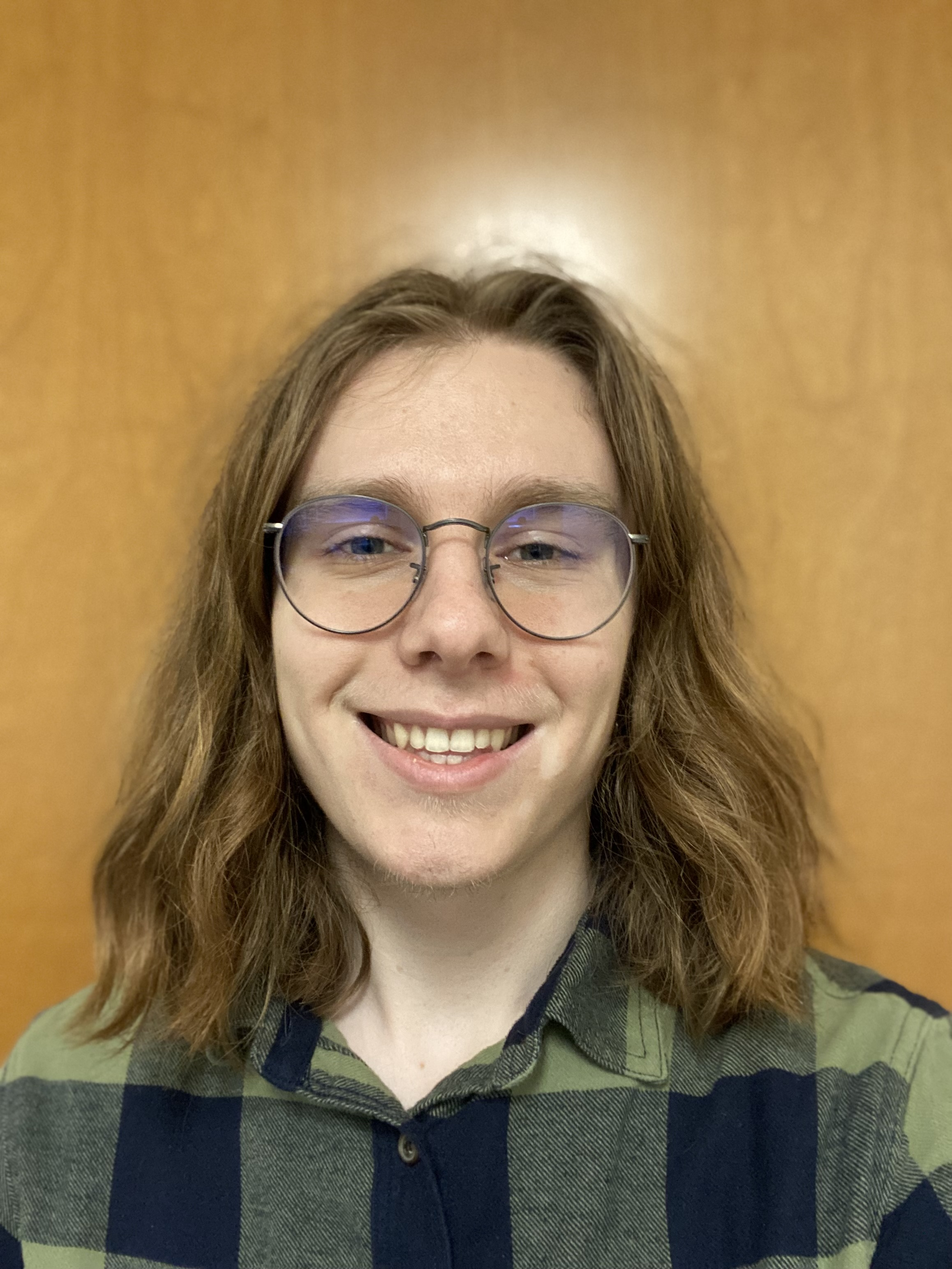
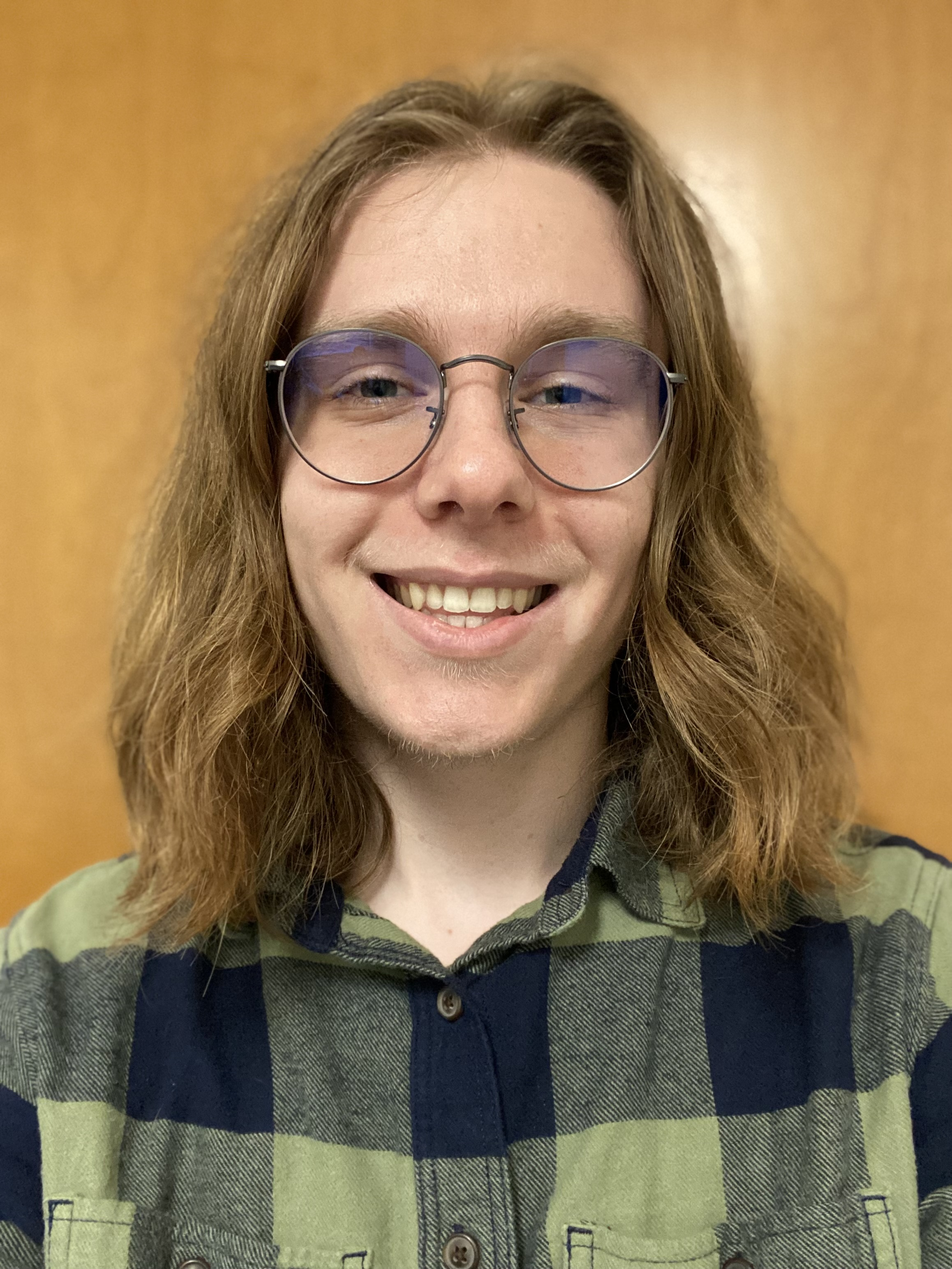
More changes to welcome page

diff --git a/styles.css b/styles.css
@@ -19,8 +19,10 @@ html {
 }
 
 .welcome-text p {
-    max-width: 500px;
-    font-size: 18px;
+    max-width: 800px;
+    font-size: 25px;
+    line-height: 150%;
+    margin-left: 5%;
 }
 
 p a {
@@ -35,24 +37,53 @@ p a:hover {
 }
 
 .welcome-text h1 {
-    font-size: 50px;
-    color: rgb(77, 80, 82);
-    /*
-    color: rgb(247, 166, 112); */
+    font-size: 60px;
+    color: rgb(180, 137, 56);
+    margin-left: 3%;
 }
 
 .welcome-text h4 {
-    font-size: 25px;
+    font-size: 30px;
 }
 
 .welcome-button {
   text-decoration: none;
-  color: gray;
-  background-color: black;
+  font-size: 50px;
+  color: rgb(255, 252, 252);
+  background-color: rgb(180, 137, 56);
   border-style: solid;
   border-width: 1px 1px 1px 1px;
+  border-color: rgb(180, 137, 56);
   padding: 4px;
   border-radius: 10px;
+  position: absolute;
+  top: 1000px;
+  text-align: center;
+  margin-left: 31%;
+}
+
+.avatar {
+  width: 100%;
+  height: auto;
+  -webkit-background-clip: padding-box;
+  -moz-background-clip: padding;
+  background-clip: padding-box;
+}
+
+img {
+  width: 100%;
+  height: auto;
+}
+
+.welcome-image {
+  position: absolute;
+  width:500px; 
+  height:500px; 
+  border-radius:50%; 
+  overflow:hidden;
+  float: right;    
+  bottom: 550px;
+  right: 500px;
 }
 
 .sticky-header {
@@ -76,6 +107,7 @@ p a:hover {
     margin: 0;
     padding: 0;
     display: flex;
+    float: right;
   }
   
   .sticky-header li {

diff --git a/index.html b/index.html
@@ -28,9 +28,10 @@
         <h4>Hi, my name is</h4>
         <h1>Gavon Trubee.</h1>
         <p>I am a software engineer with a passion for learning new things. While obtaining my Bachelor's degree in computer science at <a href="https://www.findlay.edu/" target="_blank">The University of Findlay</a>, I like to explore game development, play guitar, keep up with the latest tech trends, and further develop my knowledge of coding using <a href="https://www.freecodecamp.org/learn" target="_blank">freeCodeCamp</a> and other resources.</p>
-        <a class="welcome-button" href="#projects">Check my projects here!</a>
-        <img class="welcome-image" src-="./images/Portfolio_Pic.jpg" alt="Personal photo" width="300" height="600">
-
+        <div class="welcome-image">
+          <img class="avatar" src="images/Portfolio_Pic.jpg" alt="Personal photo">
+        </div>
+        <a class="welcome-button" href="#projects">Check my projects here! <i class="fa-solid fa-chevron-down"></i></a>
       </div>
     </section>
 
